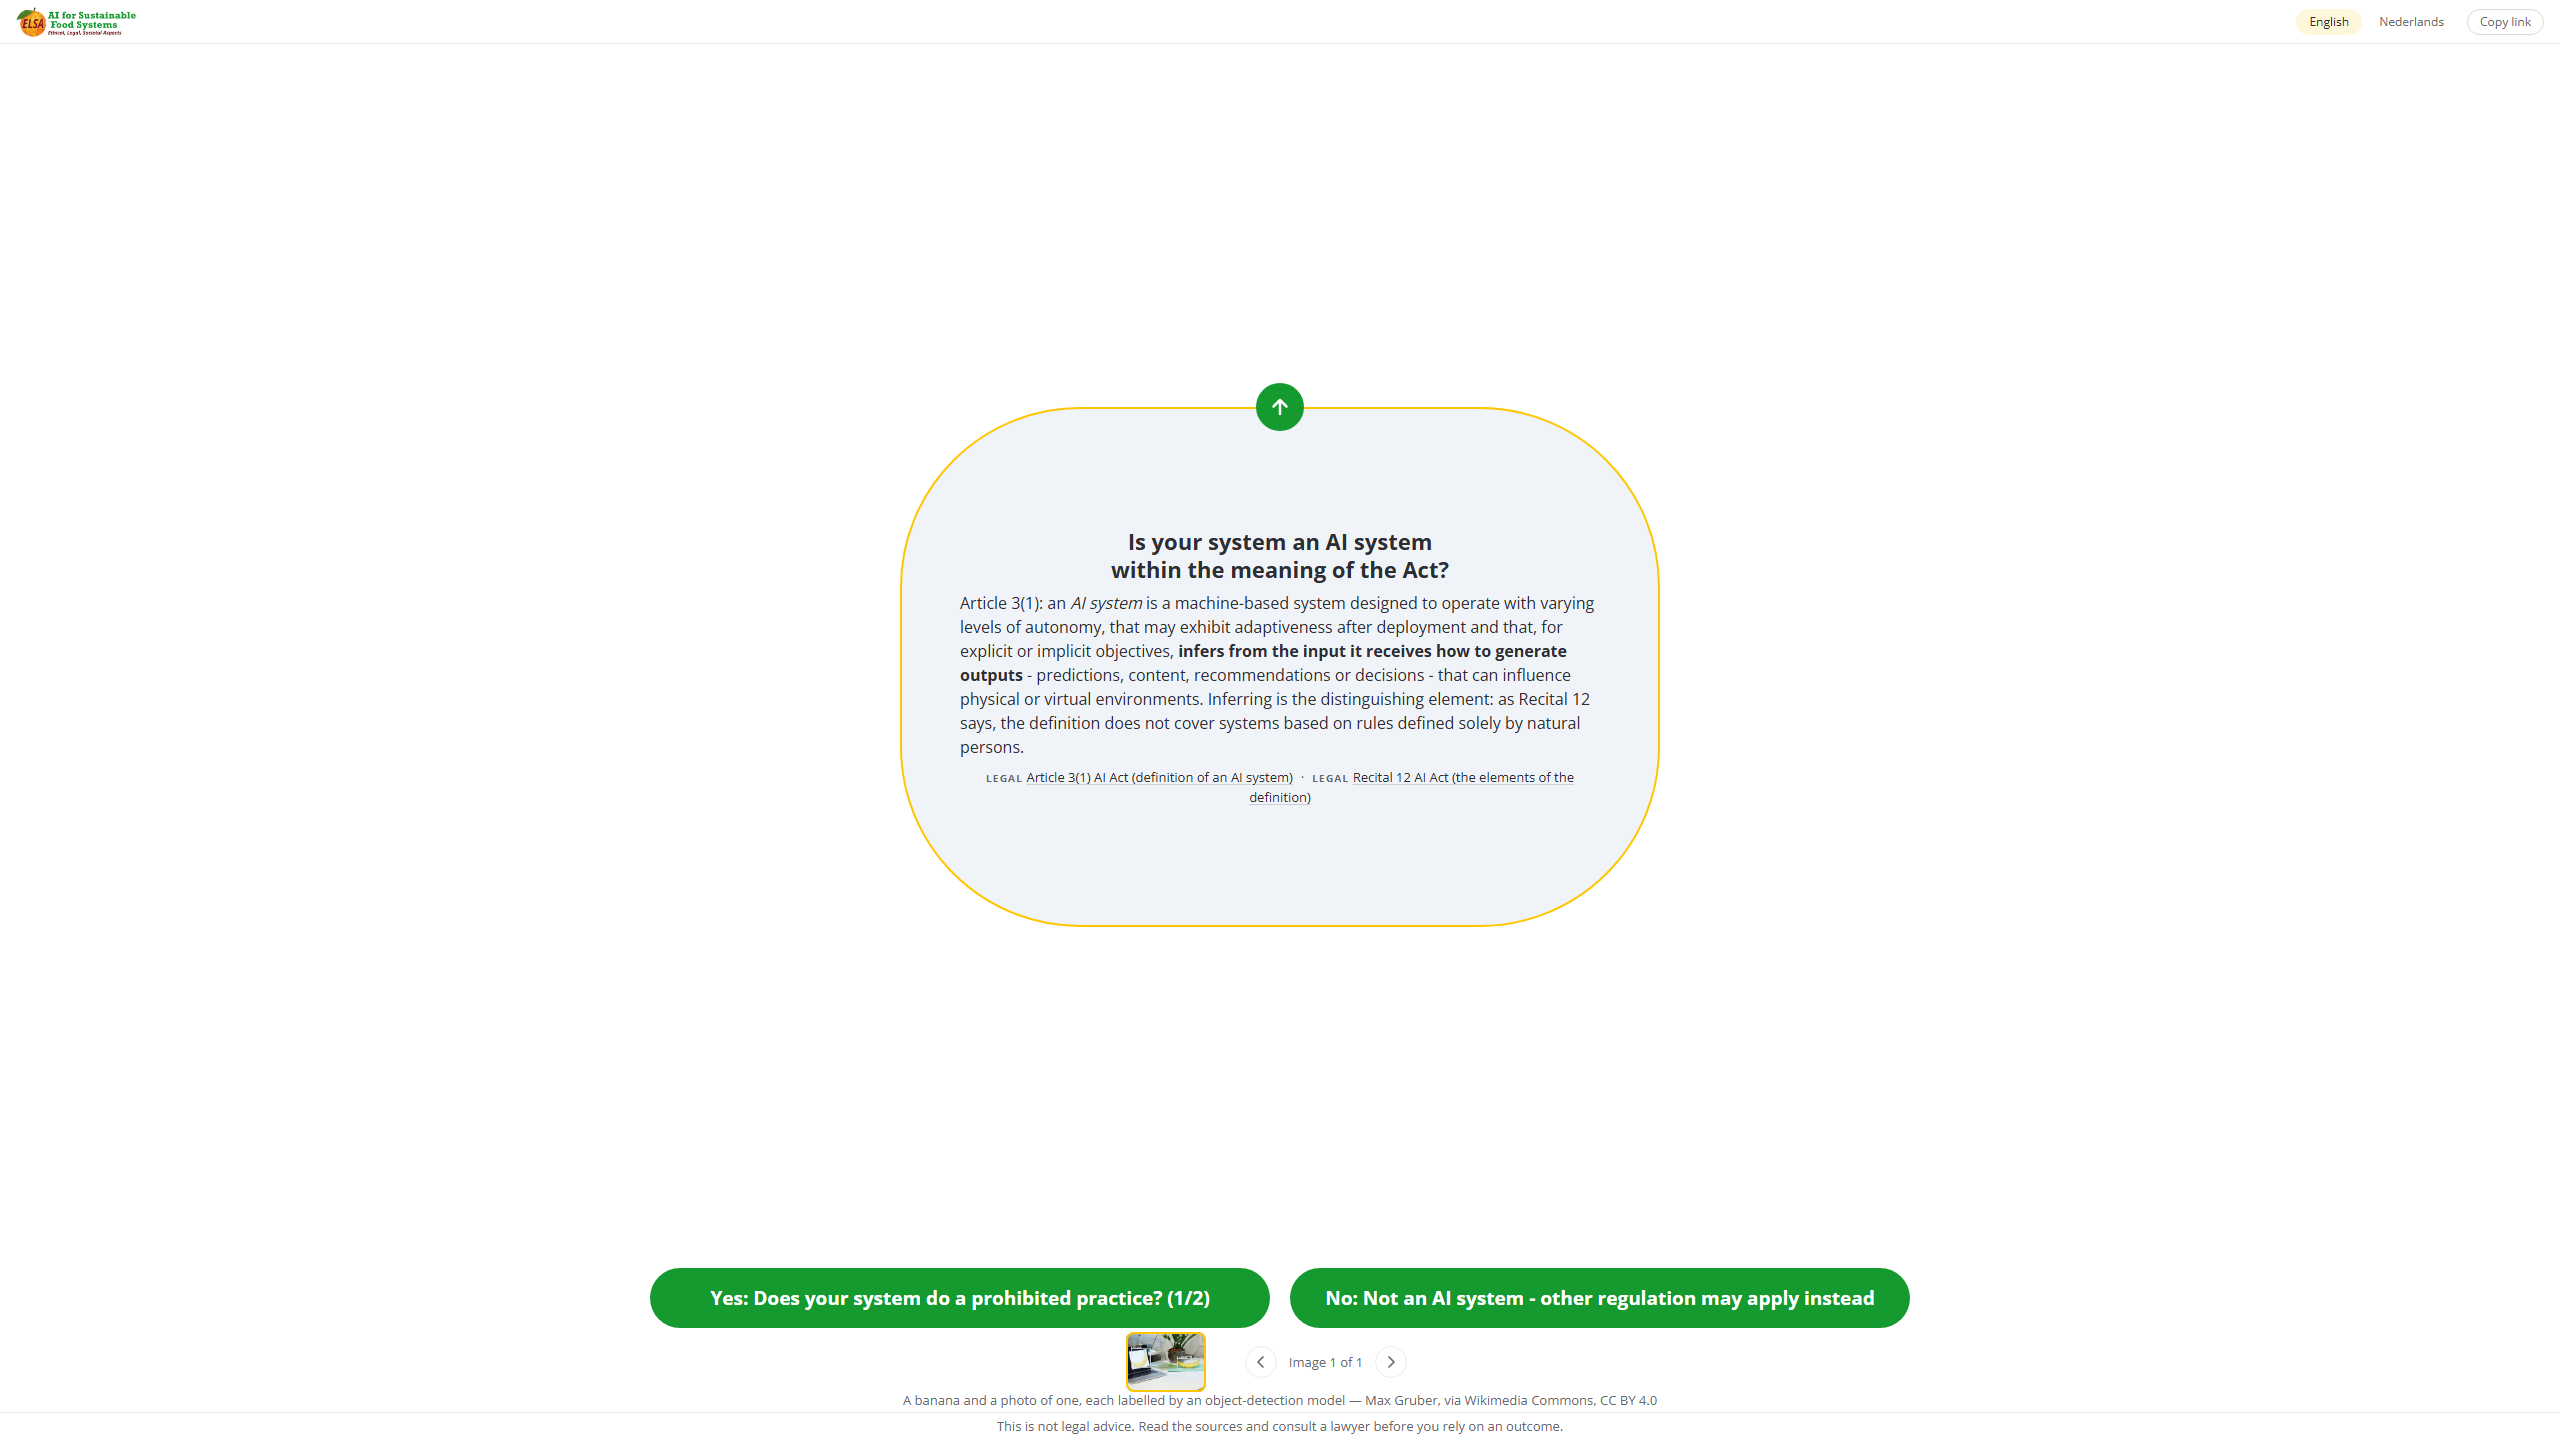
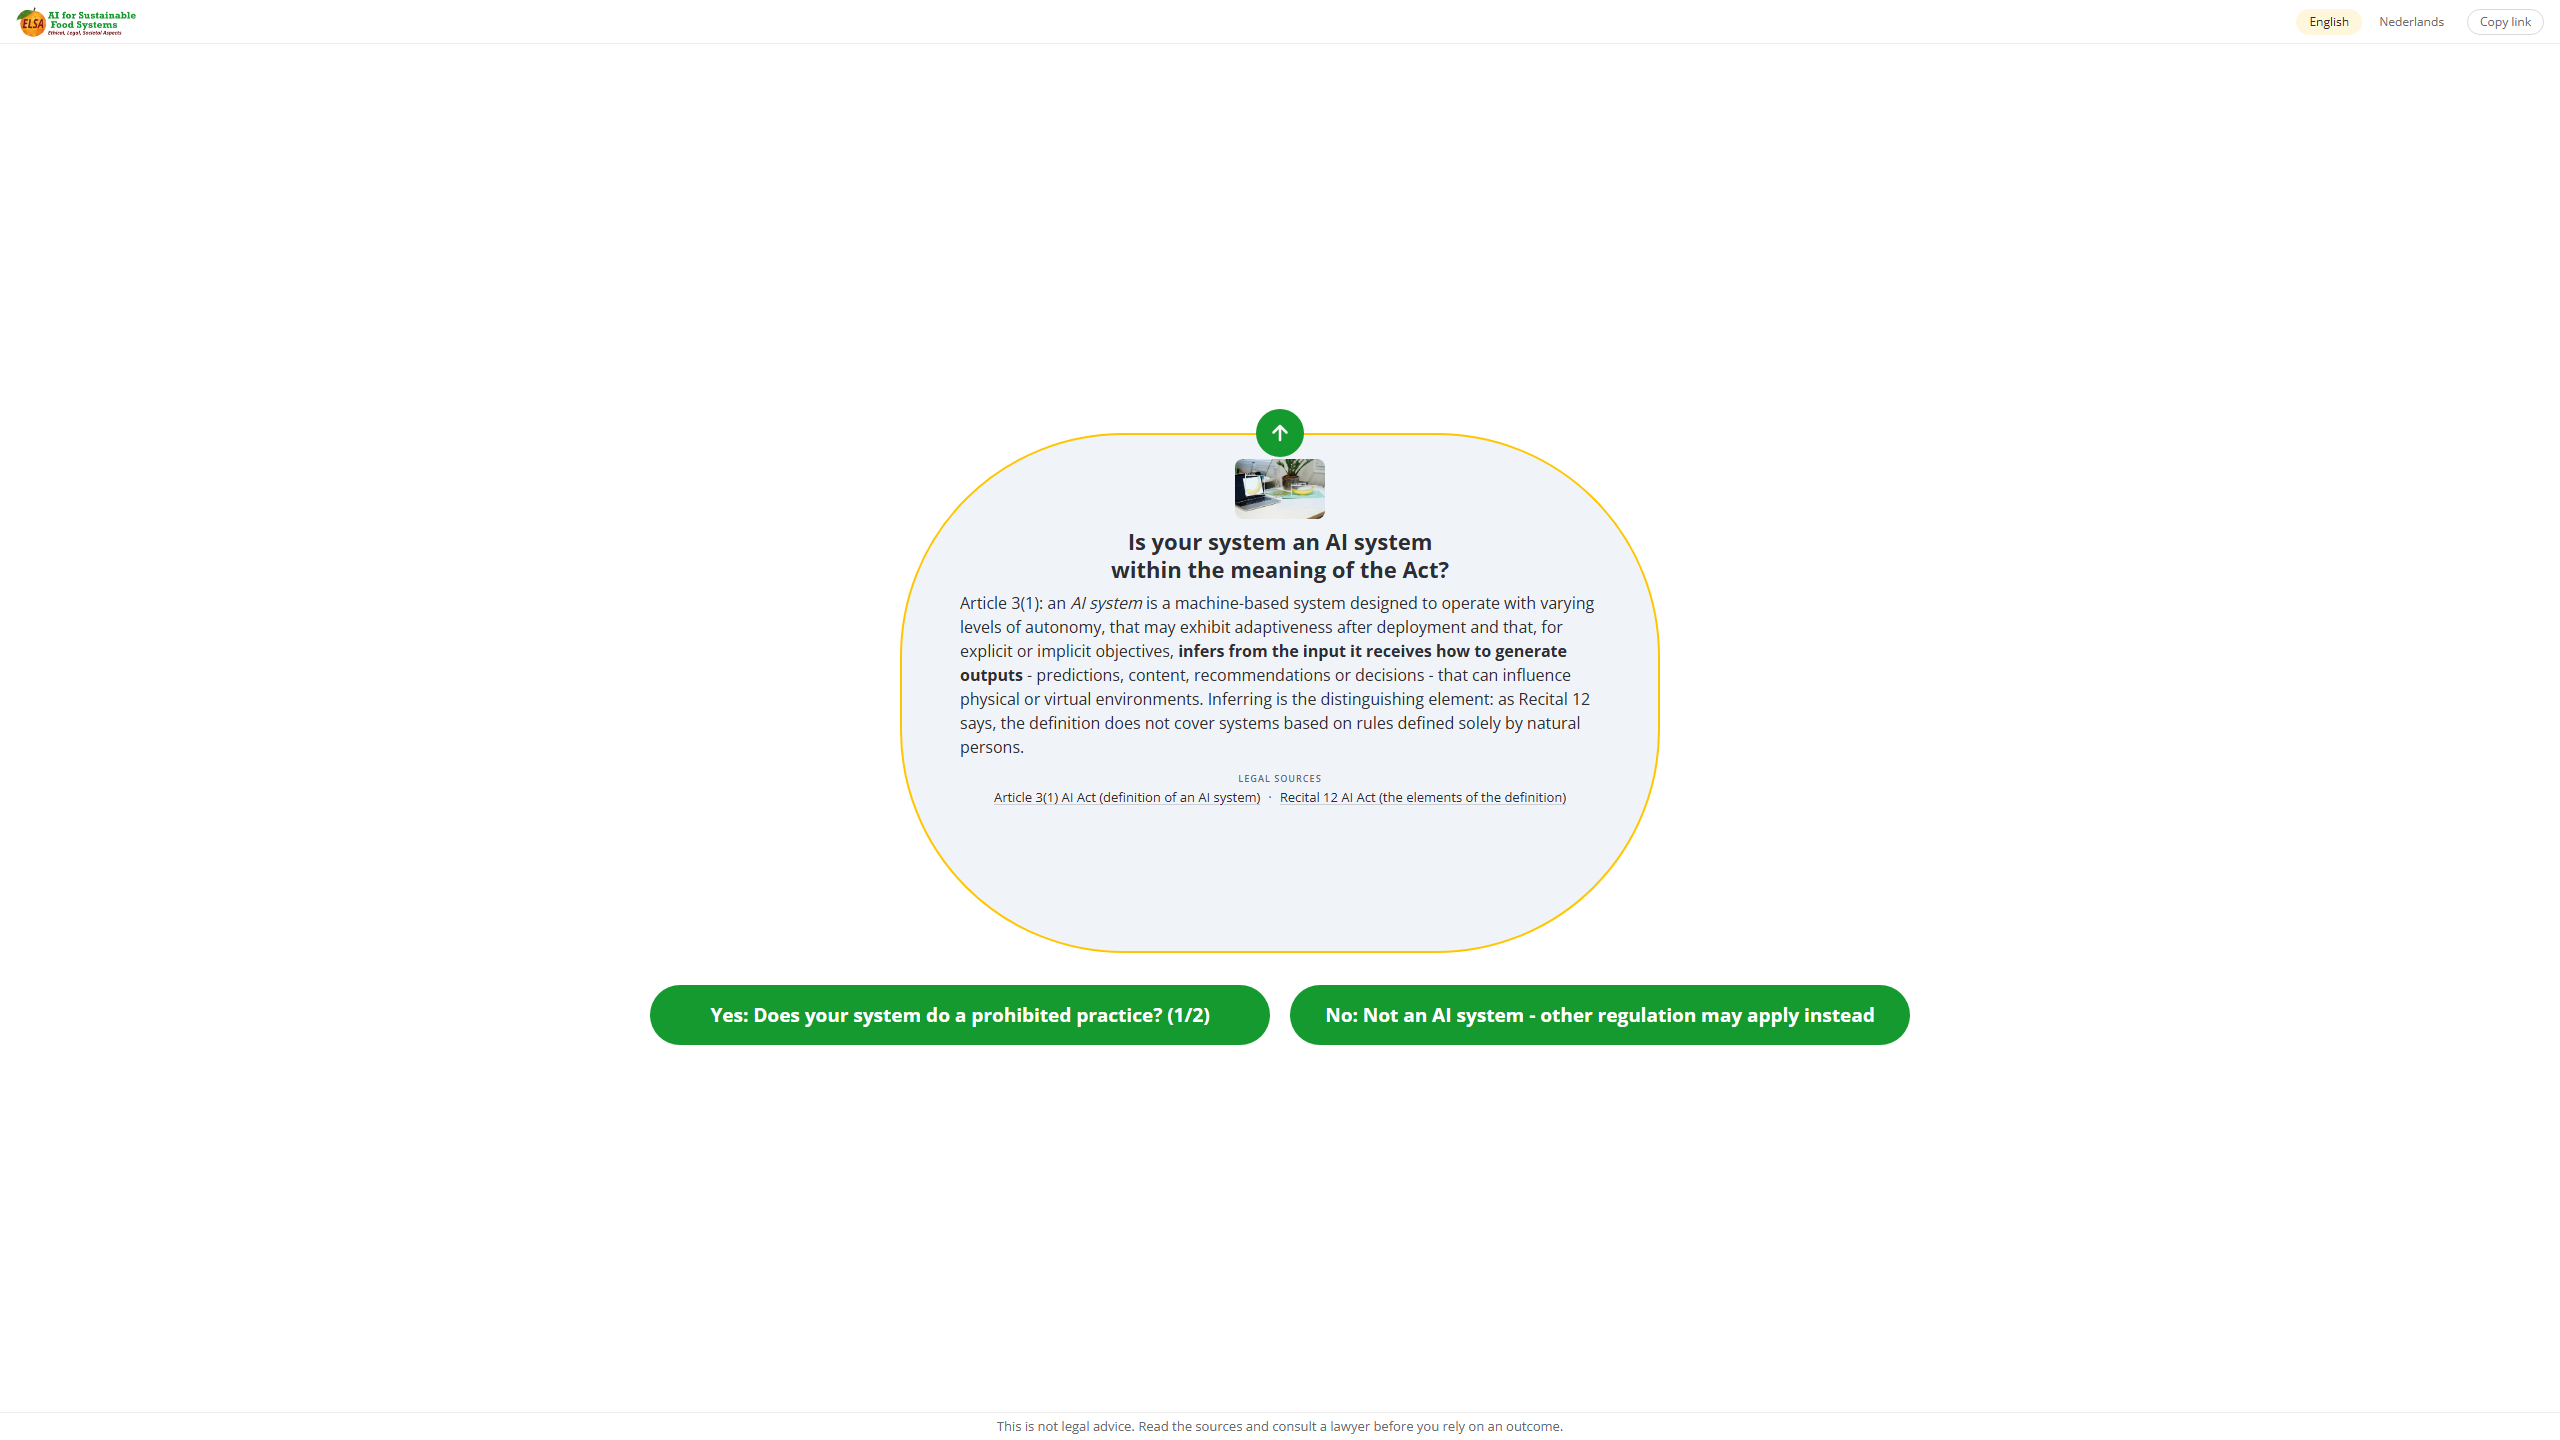
Retake issue #82's screenshots on #81's layout, and add the phone width (#82)
The merge of dev changed the rows under the arrow and the buttons (the Bubble
446 with its main image, the strip on the lower outline), so the PNGs pinned
to de6d230 no longer showed what ships. 360 x 640 is new: it shows the
word-only Answer button of the 10.3 amendment and the 48-pixel arrow.

diff --git a/tests/first-tree/answer-buttons.spec.ts b/tests/first-tree/answer-buttons.spec.ts
@@ -1,8 +1,9 @@
 /**
  * Issue #82's screenshots: the uniform Answer buttons in the logo green and the up arrow that
  * replaced the drawn Trail, on the first Tree, at the smallest and the largest viewport of
- * docs/specs/application.md 10.6 above the guarantee -- a question Node three steps in, the
- * root Node, and a Terminal.
+ * docs/specs/application.md 10.6 above the guarantee, and at the phone's 360 x 640 where an
+ * Answer button shows its word alone (10.3, amended 2026-09-18) -- a question Node three steps
+ * in, the root Node, and a Terminal.
  *
  * As tests/first-tree/walk.spec.ts does, the tracked PNGs in `docs/screenshots/issue-82/` are
  * rewritten only when `ELSA_SHOTS=1` asks for them; a plain run writes to the gitignored
@@ -32,6 +33,7 @@ const PAGES = [
 for (const [width, height] of [
   [1280, 640],
   [2560, 1440],
+  [360, 640],
 ] as const) {
   test(`the arrow and the Answer buttons at ${width} x ${height}, screenshot`, async ({ page }) => {
     await page.setViewportSize({ width, height })
